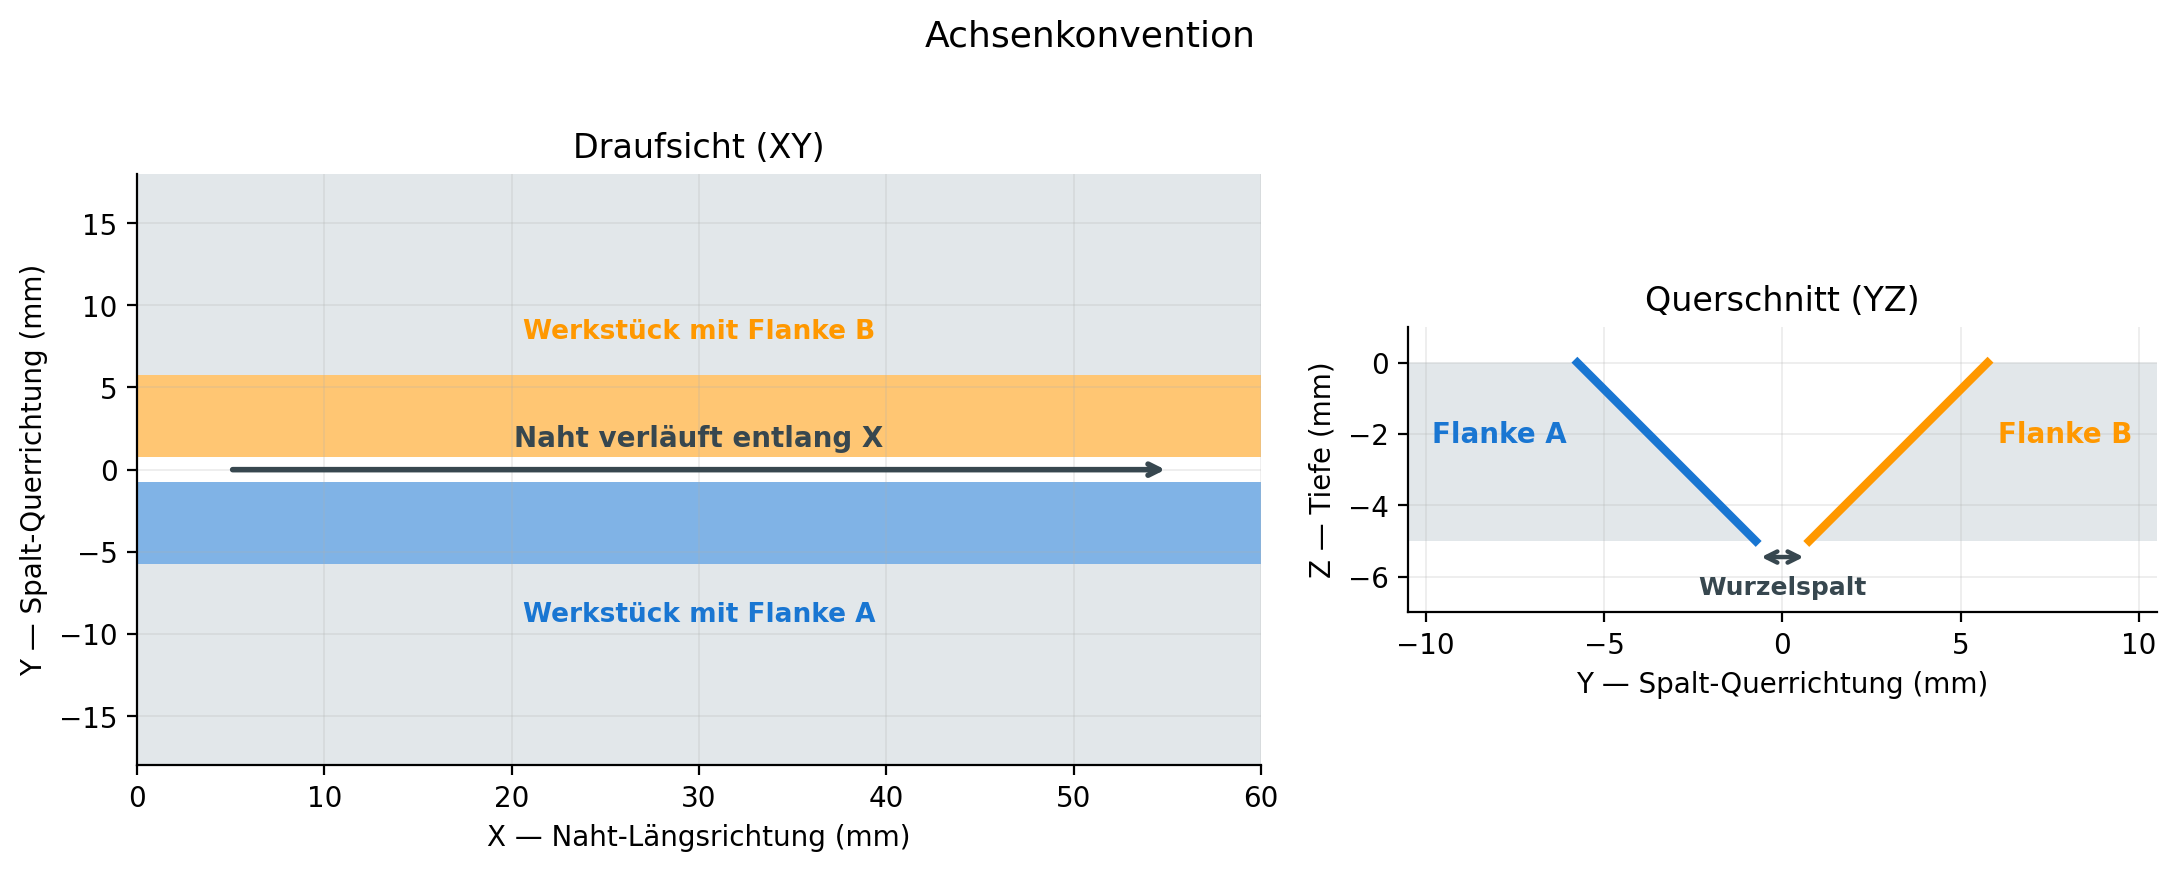
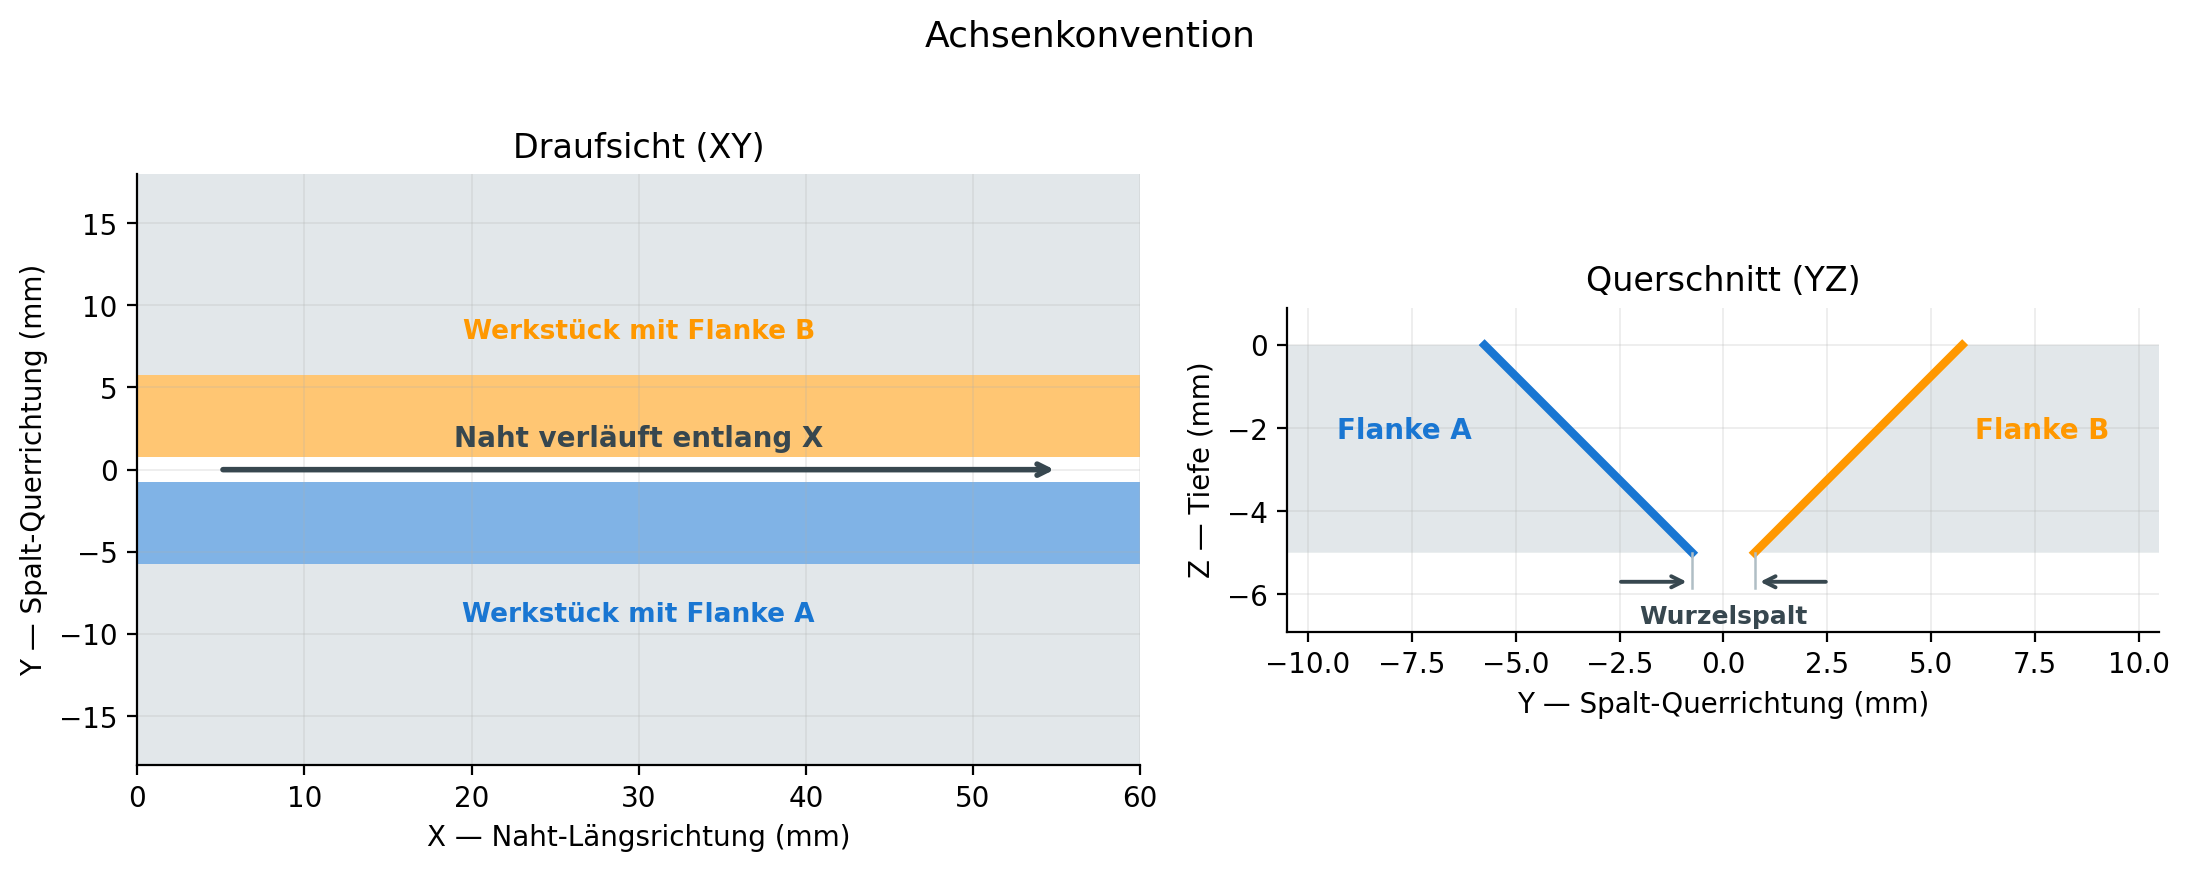
docs(figures): Wurzelspalt-Bemassung in Bild 1 lesbar machen
Der Doppelpfeil ueber 1.5 mm schwebte ohne Bezug unter dem Bauteil und
war zu gedraengt fuer zwei Spitzen. Jetzt fuehren Masshilfslinien von den
Flankenenden herunter, die Pfeile zeigen von aussen nach innen.

Der Querschnitt bekommt zudem mehr Breite (width_ratios 1.5 -> 1.15) und
einen engeren z-Bereich: bei aspect="equal" bestimmt die Panelbreite die
Darstellungsgroesse, das Panel war entsprechend klein.

diff --git a/scripts/generate_methodik_figures.py b/scripts/generate_methodik_figures.py
@@ -67,7 +67,7 @@ def figure_axes_convention(path: Path):
     """
     fig, (ax_top, ax_cs) = plt.subplots(
         1, 2, figsize=(11, 4.4), dpi=DPI,
-        gridspec_kw={"width_ratios": [1.5, 1.0]})
+        gridspec_kw={"width_ratios": [1.15, 1.0]})
 
     # ── Draufsicht XY ────────────────────────────────────────────────
     for sign, c in ((-1, C_FLANK_A), (+1, C_FLANK_B)):
@@ -102,17 +102,25 @@ def figure_axes_convention(path: Path):
                    [-THICK, 0, 0, -THICK],
                    color=C_BODY, alpha=0.6, linewidth=0)
         ax_cs.plot([y_root, y_top], [-THICK, 0], color=c, linewidth=3.0)
-    ax_cs.annotate("", xy=(-ROOT_GAP / 2, -THICK - 0.45),
-                   xytext=(ROOT_GAP / 2, -THICK - 0.45),
-                   arrowprops=dict(arrowstyle="<->", color=C_REF, lw=1.6))
-    ax_cs.text(0, -THICK - 1.5, "Wurzelspalt", color=C_REF, fontsize=9,
-               ha="center", weight="bold")
+    # Wurzelspalt bemassen. Masshilfslinien von den Flankenenden herunter,
+    # sonst schwebt die Bemassung unter dem Bauteil und laesst sich nicht
+    # zuordnen. Die Pfeile zeigen von aussen nach innen, weil zwischen
+    # 1.5 mm zwei Spitzen gedraengt wirken.
+    z_dim = -THICK - 0.7
+    for sign in (-1, +1):
+        ax_cs.plot([sign * ROOT_GAP / 2] * 2, [-THICK, z_dim - 0.15],
+                   color=C_GUIDE, linewidth=0.9, zorder=2)
+        ax_cs.annotate(
+            "", xy=(sign * ROOT_GAP / 2, z_dim), xytext=(sign * 2.6, z_dim),
+            arrowprops=dict(arrowstyle="->", color=C_REF, lw=1.4))
+    ax_cs.text(0, z_dim - 0.55, "Wurzelspalt", color=C_REF, fontsize=9,
+               ha="center", va="top", weight="bold")
     ax_cs.text(-TOP_EDGE - 0.3, -THICK * 0.45, "Flanke A", color=C_FLANK_A,
                fontsize=10, ha="right", weight="bold")
     ax_cs.text(TOP_EDGE + 0.3, -THICK * 0.45, "Flanke B", color=C_FLANK_B,
                fontsize=10, ha="left", weight="bold")
     ax_cs.set_xlim(-x_lim, x_lim)
-    ax_cs.set_ylim(-THICK - 2.0, 1.0)
+    ax_cs.set_ylim(-THICK - 1.9, 0.9)
     ax_cs.set_aspect("equal")
     _style(ax_cs, "Y — Spalt-Querrichtung (mm)", "Z — Tiefe (mm)")
     ax_cs.set_title("Querschnitt (YZ)", fontsize=12)
